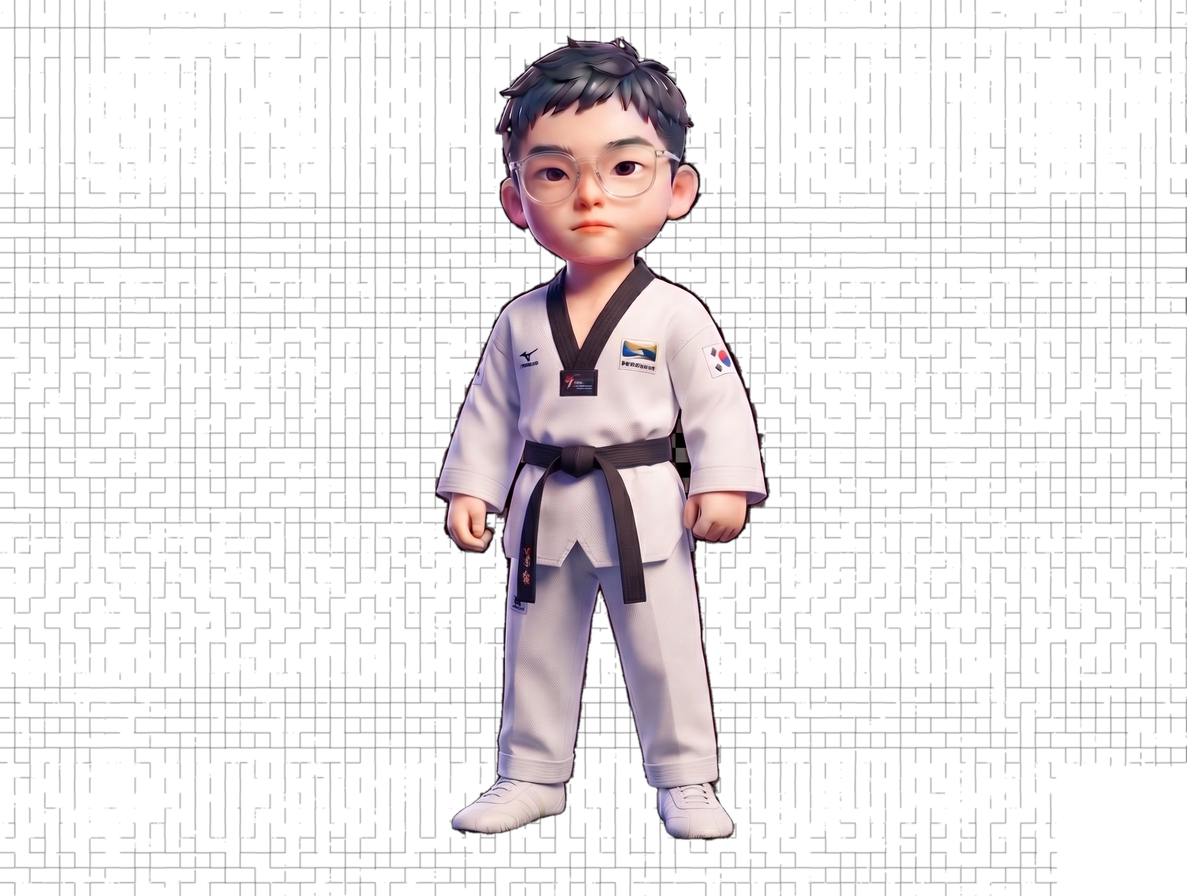
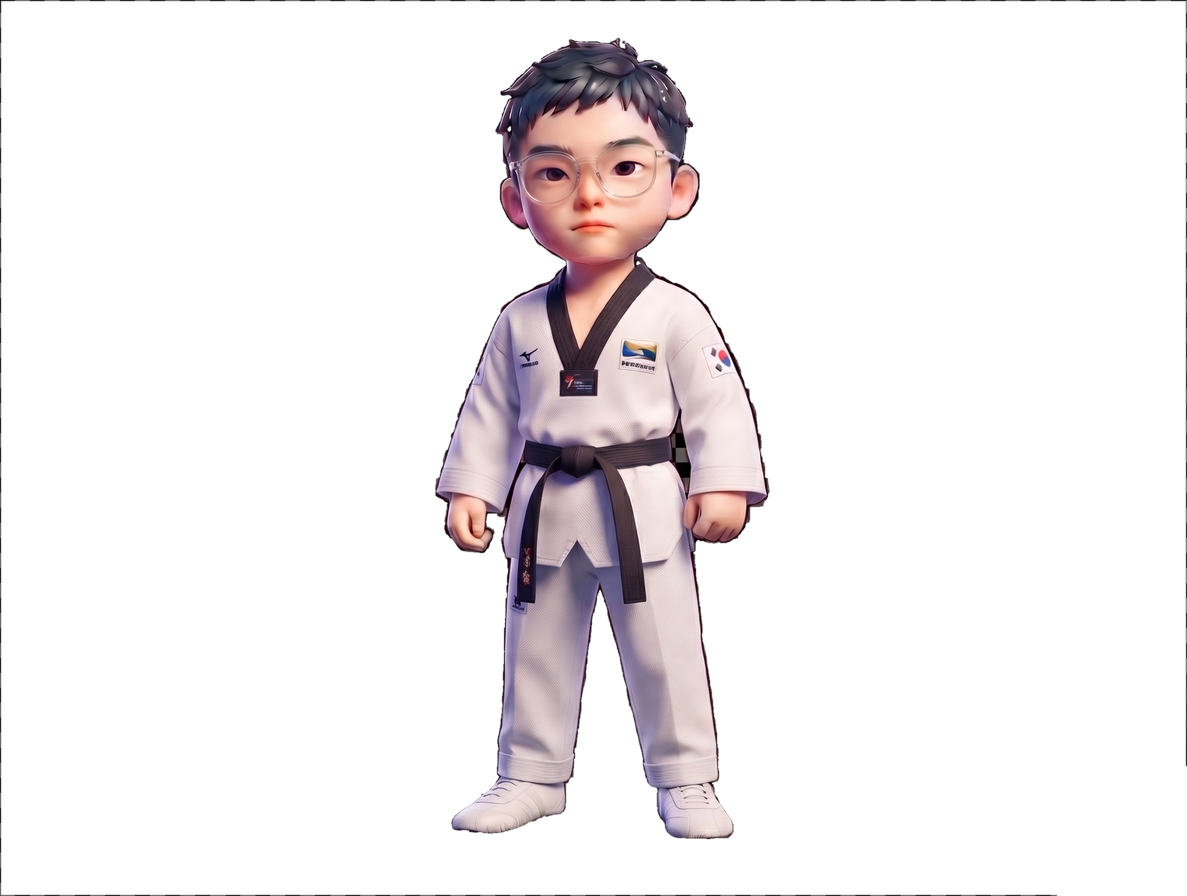
태권도복 배경 제거 재작업, 옷장 효과 문구에서 "입고 있으면 매일:" 문구 제거
- 이전 배경 제거는 체크무늬 두 색만 잡고 타일 경계의 안티앨리어싱 색은 못 잡아서,
  옅은 격자 선이 옷 전체에 반투명하게 깔려 있었음 — 임계값을 넓혀서 경계까지
  통째로 배경으로 처리하도록 수정
- 옷장 카드·상점 목록에서 옷 효과를 보여줄 때 "입고 있으면 매일:" 설명 없이
  능력치 증가분만 바로 보이게 변경

diff --git a/wardrobe.js b/wardrobe.js
@@ -518,7 +518,7 @@ function wardrobeCard(item, wardrobe) {
   if (Object.keys(item.effect).length) {
     const eff = document.createElement("div");
     eff.className = "wardrobe-effect";
-    eff.textContent = `입고 있으면 매일: ${signedEffectText(item.effect)}`;
+    eff.textContent = signedEffectText(item.effect);
     card.appendChild(eff);
   }
   const badge = document.createElement("div");
@@ -544,7 +544,7 @@ function renderClothingShop(listEl) {
     const row = document.createElement("div");
     row.className = "item-row";
     const icon = WARDROBE_SLOTS.find((s) => s.id === item.slot)?.label.split(" ")[0] ?? "🎁";
-    const eff = Object.keys(item.effect).length ? ` (입고 있으면 매일 ${signedEffectText(item.effect)})` : "";
+    const eff = Object.keys(item.effect).length ? ` (${signedEffectText(item.effect)})` : "";
     row.innerHTML = `<span class="item-icon">${icon}</span><span><strong></strong> — ${item.price}원<br><span class="muted"></span></span>`;
     row.querySelector("strong").textContent = item.name;
     row.querySelector(".muted").textContent = `${item.description}${eff}`;
